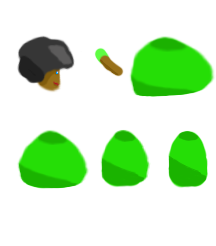
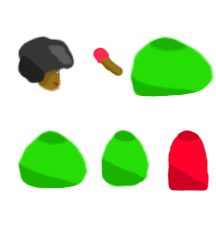
WINCYJ PTAKUF i czerwona koszulka

Changed region(s): [[0.7778, 0.5122, 0.9722, 0.7967], [0.4167, 0.1707, 0.5, 0.2561]]

diff --git a/Assets/Scripts/Throw.cs b/Assets/Scripts/Throw.cs
@@ -25,7 +25,7 @@ public class Throw : MonoBehaviour
 
             if (food > 0)
             {
-                FindObjectOfType<AudioManager>().Play("throw");
+                //FindObjectOfType<AudioManager>().Play("throw");
                 transform.parent.GetComponent<HeightOfBaloon>().currentFood--; 
                 transform.parent.GetComponent<HeightOfBaloon>().Weight--;
                 anim.SetBool("Mouse Input", true);
